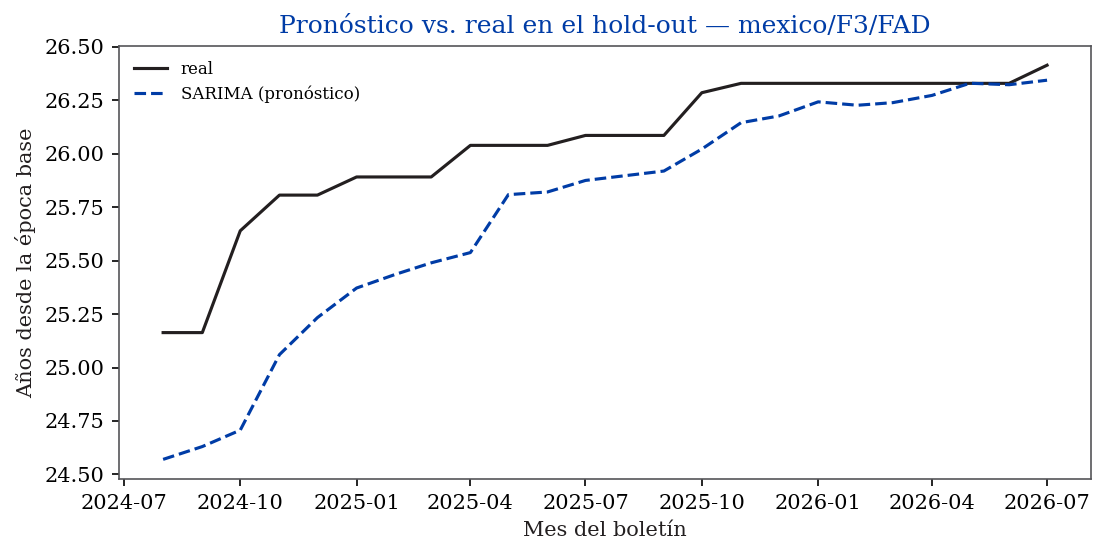
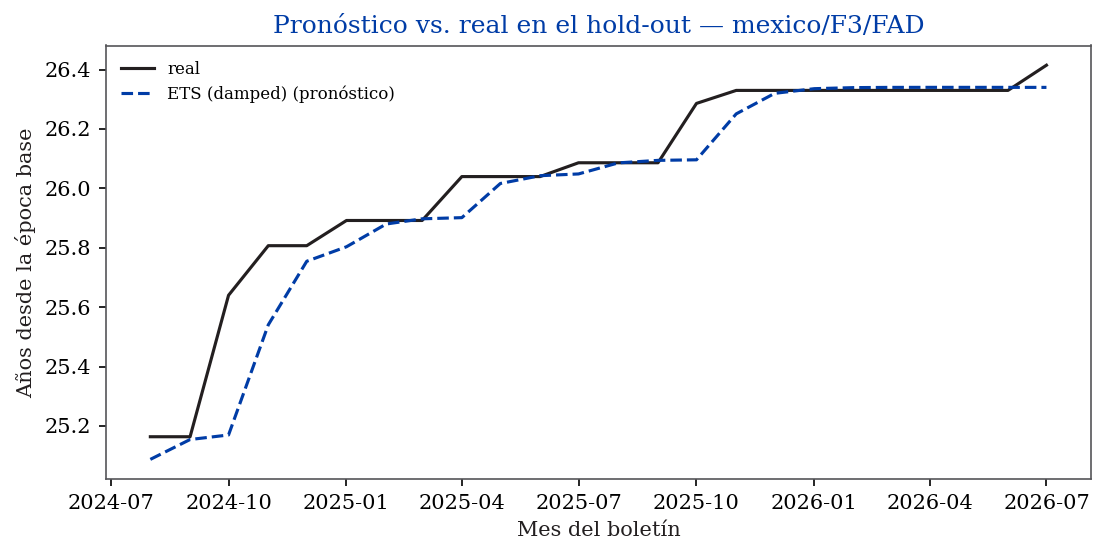
docs(tex): update Proyecto I to 21-model results + tuning, ensemble, CRPS
Rewrite model catalog (8->21 families), DFF table to 21 models, add Optuna HPO
methodology + hold-out-confirmed gains, curated-ensemble and CRPS results, and
conclusions (parsimony wins; foundation/global/tuning nuance). Regenerate the
MX/F3/FAD hold-out figure with its actual best model (ETS). Refs [19]-[21]
(Optuna, M4, CRPS).

diff --git a/reports/latex/ProyectoI_VisaPredictAI.tex b/reports/latex/ProyectoI_VisaPredictAI.tex
@@ -135,9 +135,12 @@ FAD de DFF. Entrega cada serie $y_{p,c,b,t}$ con índice mensual.
 huecos cortos (meses $C$/$U$ intercalados) y deja como faltantes los huecos
 largos; estandariza con estadísticos calculados solo sobre el tramo de
 entrenamiento y construye los regresores de calendario del año fiscal.
-\item \textbf{Catálogo de modelos.} Ocho modelos de referencia tras una interfaz
-común: naïve estacional, ARIMA, SARIMA, Prophet, LSTM, DeepAR, la cascada
-ARIMA-LSTM y XGBoost con regresores.
+\item \textbf{Catálogo de modelos.} Veintiún modelos tras una interfaz común, de seis
+familias: referencia (naïve estacional), estadísticos (ARIMA, SARIMA), suavizamiento y
+descomposición (ETS amortiguado, Theta, Kalman), aditivo (Prophet), árboles sobre
+deltas (XGBoost, LightGBM, CatBoost), lineales y redes profundas (DLinear, NLinear,
+RLinear, TiDE, LSTM, DeepAR, ARIMA-LSTM, N-BEATS, N-HiTS, TFT) y un \textit{foundation
+model} zero-shot (Chronos).
 \item \textbf{Validación walk-forward.} Validación temporal con ventana
 expansible y paso mensual que evalúa cada modelo sin fuga de información, reservando
 los últimos 24 meses como conjunto independiente.
@@ -157,7 +160,7 @@ cobertura empírica.
   arr/.style={-{Latex[length=2mm]}, uacjgray, line width=0.7pt}]
   \node[store] (db) {Almacén DuckDB (vista entrenable $e=F$)};
   \node[box, right=0.6cm of db] (pre) {Preprocesa\-miento (huecos, escala, calendario)};
-  \node[box, right=0.6cm of pre] (mod) {Catálogo de 8 modelos};
+  \node[box, right=0.6cm of pre] (mod) {Catálogo de 21 modelos};
   \node[box, right=0.6cm of mod] (wf) {Walk-forward (holdout 24 m)};
   \node[box, fill=uacjyellow!25, right=0.6cm of wf] (pi) {Pronóstico + intervalo 95\,\%};
   \draw[arr] (db) -- (pre);
@@ -589,43 +592,51 @@ modelado no usa estos valores imputados, sino una máscara de observación.}
 
 \subsection{1.3.1 Definición de las técnicas de modelado a utilizar}
 
-Se comparan los ocho modelos de la Tabla~\ref{tab:modelos}, que cubren tres familias
-complementarias: estadísticos clásicos, modelos aditivos y modelos de aprendizaje
-automático. El naïve estacional es el modelo de referencia obligatorio y el
-denominador de la métrica MASE. La
-elección responde al problema: las series son fechas que avanzan con tendencia
-fuerte, estacionalidad anual leve y retrogresiones ocasionales, por lo que conviene
-contrastar modelos lineales con memoria corta (ARIMA, SARIMA) contra modelos no
-lineales con capacidad de capturar patrones complejos (LSTM, DeepAR, XGBoost) y una
-cascada que combina ambos enfoques (ARIMA-LSTM \cita{9}).
+Se comparan los \textbf{21 modelos} de la Tabla~\ref{tab:modelos}, agrupados en seis
+familias complementarias. El naïve estacional es el modelo de referencia obligatorio y
+el denominador de la métrica MASE. La elección responde al problema: las series son
+fechas que avanzan con tendencia fuerte, estacionalidad anual casi nula y
+retrogresiones ocasionales, por lo que conviene contrastar el espectro completo
+—desde modelos lineales parsimoniosos (ARIMA, SARIMA, ETS, Theta) hasta modelos de alta
+capacidad (árboles de potenciación de gradiente sobre deltas, redes profundas)— y
+verificar empíricamente cuál conviene a este régimen de datos. Los árboles se formulan
+sobre la \textit{primera diferencia} (predicen el incremento mensual y lo reintegran),
+condición necesaria para que puedan extrapolar la tendencia en lugar de saturarse en el
+máximo observado. Se incluye además un \textit{foundation model} preentrenado (Chronos)
+evaluado en modo zero-shot, sin ajustarse a estos datos.
 
 \begin{table}[H]
 \centering
-\caption[Catálogo de modelos]{Los ocho modelos de referencia y su justificación.}
+\footnotesize
+\caption[Catálogo de modelos]{Las seis familias del catálogo de 21 modelos y su
+justificación. Los árboles operan sobre la primera diferencia; Chronos es zero-shot.}
 \label{tab:modelos}
 \begin{tabular}{lll}
 \hline
 \rowcolor{uacjblue!15}
-\textbf{Modelo} & \textbf{Familia} & \textbf{Rol} \\ \hline
-Naïve estacional & Referencia & Línea base; denominador de MASE \\
-ARIMA \cita{2} & Estadístico lineal & Tendencia con diferenciación \\
-SARIMA \cita{2} & Estadístico estacional & Estacionalidad anual \\
-Prophet \cita{3} & Aditivo & Tendencia con cambios de régimen \\
-LSTM \cita{4} & Red recurrente & No linealidad determinista \\
-DeepAR \cita{5} & Red probabilística & Intervalos nativos \\
-ARIMA-LSTM \cita{9} & Cascada híbrida & Lineal + residual no lineal \\
-XGBoost \cita{6} & Árboles potenciados & Rezagos + regresores \\ \hline
+\textbf{Familia} & \textbf{Modelos} & \textbf{Rol} \\ \hline
+Referencia & Naïve estacional & Línea base; denominador de MASE \\
+Estadísticos \cita{2} & ARIMA, SARIMA & Tendencia/estacionalidad lineal \\
+Suavizamiento & ETS amortiguado, Theta, Kalman & Tendencia parsimoniosa \\
+Aditivo \cita{3} & Prophet & Tendencia con cambios de régimen \\
+Árboles sobre deltas \cita{6} & XGBoost, LightGBM, CatBoost & Rezagos + regresores, extrapolación \\
+Lineales/profundos \cita{4}\cita{5}\cita{9} & DLinear, NLinear, RLinear, TiDE, & No linealidad y capacidad alta \\
+ & LSTM, DeepAR, ARIMA-LSTM, & \\
+ & N-BEATS, N-HiTS, TFT & \\
+Foundation \textit{(zero-shot)} & Chronos & Transferencia sin entrenamiento \\ \hline
 \end{tabular}
 \end{table}
 
 \subsection{1.3.2 Creación de la arquitectura general del sistema y definición del flujo de trabajo}
 
-Los ocho modelos se exponen tras una interfaz común (\texttt{fit}/\texttt{predict})
+Los 21 modelos se exponen tras una interfaz común (\texttt{fit}/\texttt{predict})
 mediante la biblioteca \textit{darts}, lo que permite una comparación justa y reúsa
 el motor de validación temporal y la generación de bandas probabilísticas sin
-reimplementarlos. El flujo de trabajo es el de la Figura~\ref{fig:arquitectura}: la
-única pieza de código propio es la cascada ARIMA-LSTM, un envoltorio delgado que
-ajusta un ARIMA, calcula sus residuales y entrena un LSTM sobre ellos.
+reimplementarlos. El flujo de trabajo es el de la Figura~\ref{fig:arquitectura}: las
+piezas de código propio son la cascada ARIMA-LSTM (un envoltorio que ajusta un ARIMA,
+calcula sus residuales y entrena un LSTM sobre ellos), el envoltorio que diferencia las
+series para los árboles de potenciación de gradiente y el adaptador que evalúa Chronos
+en modo zero-shot.
 
 % ------------------------------------------------------------
 \section{1.4 Desarrollo}
@@ -634,7 +645,9 @@ ajusta un ARIMA, calcula sus residuales y entrena un LSTM sobre ellos.
 
 La implementación reúsa el almacén DuckDB del Objetivo~1 y se apoya en
 \textit{darts} sobre \textit{PyTorch} para los modelos de redes neuronales,
-\textit{statsmodels} para ARIMA/SARIMA, \textit{Prophet} y \textit{XGBoost}. Durante
+\textit{statsmodels} para ARIMA/SARIMA/ETS/Theta, \textit{Prophet}, los árboles
+\textit{XGBoost}/\textit{LightGBM}/\textit{CatBoost} y \textit{chronos-forecasting} para
+el \textit{foundation model}. Durante
 la implementación se enfrentaron retos de entorno propios de versiones recientes en
 \textit{Apple Silicon}: el entrenamiento de redes recurrentes con múltiples hilos
 provocaba fallos de segmentación, resueltos forzando un solo hilo de cómputo; y el
@@ -654,6 +667,20 @@ conjunto de prueba, para impedir la fuga de información.
 
 \subsection{1.4.3 Optimización de parámetros y pruebas avanzadas}
 
+Los árboles de potenciación de gradiente se optimizan con \textit{Optuna} \cita{19}
+(muestreo TPE multivariante, semilla fija) bajo un protocolo \textit{anidado y libre de
+fuga}: el objetivo minimiza el error de una cola de validación interna recortada de la
+región de entrenamiento (un ajuste seguido de validación rodante a un paso), de modo que
+el conjunto reservado de 24 meses \textit{nunca} interviene en la búsqueda. Se ajusta un
+único conjunto de hiperparámetros por grupo (FAD/DFF), lo que regulariza con muestras
+pequeñas, y se sesga el espacio de búsqueda hacia la regularización (profundidad y tasa
+de aprendizaje bajas, penalización alta). Como salvaguarda contra el sobreajuste a la
+métrica de selección, una configuración tuneada solo se \textit{acepta} si además mejora
+sobre los valores por defecto en el conjunto reservado; en caso contrario se conserva el
+valor por defecto. Los modelos estadísticos no entran en esta búsqueda porque su propia
+selección por criterio de información (AICc) ya cumple esa función. El efecto de esta
+optimización se reporta en §2.2.
+
 Los intervalos de predicción al 95\,\% se generan por dos mecanismos
 complementarios. El primero es el probabilístico: ARIMA, SARIMA y DeepAR muestrean
 su distribución predictiva, de la que se leen los cuantiles 2.5\,\% y 97.5\,\%; este
@@ -661,7 +688,7 @@ camino cubre tanto los modelos estadísticos como el de red neuronal. El segundo
 conforme dividido, un método no paramétrico y agnóstico al modelo que fija el
 semiancho a partir del cuantil de los errores absolutos de calibración, con cobertura
 garantizada bajo intercambiabilidad \cita{8}; al no depender del modelo, sirve de red
-de seguridad uniforme para los ocho. En una verificación controlada con datos
+de seguridad uniforme para los 21. En una verificación controlada con datos
 intercambiables, el intervalo conforme alcanzó una cobertura empírica del 92\,\%,
 cercana al nivel nominal; sobre las series reales tiende a ser conservador (cobertura
 $\geq$ nominal), como corresponde a su garantía teórica.
@@ -681,8 +708,8 @@ Un valor de MASE menor que uno indica que el modelo mejora al naïve.
 
 La generalización se evalúa sobre el conjunto de 24 meses reservado, que ningún
 modelo vio durante el ajuste ni la selección. La Figura~\ref{fig:holdout} compara el
-pronóstico del modelo ganador (SARIMA) contra los valores reales en ese conjunto
-para México/F3/FAD: el pronóstico sigue la trayectoria real y converge hacia el
+pronóstico del modelo de menor error en esa serie (ETS amortiguado) contra los valores
+reales para México/F3/FAD: el pronóstico sigue la trayectoria real y converge hacia el
 final del horizonte.
 
 \begin{figure}[H]
@@ -783,41 +810,87 @@ confianza de modelos (Model Confidence Set) y el ranking de Friedman-Nemenyi sob
 25 series, fijados de antemano.
 
 \paragraph{Resultados sobre la tabla DFF.} Como FAD y DFF se evalúan por separado, el
-mismo protocolo se aplicó a las 25 series DFF de preferencia familiar
-(Tabla~\ref{tab:comparacion_dff}). El resultado es \textit{distinto} al de FAD y muy
-informativo: en estas series, mucho más cortas (disponibles solo desde octubre de
-2015), \textbf{XGBoost} —con sus regresores de calendario— obtiene el menor error
-(MASE $=0.108$), seguido de ARIMA ($0.133$); XGBoost gana en 18 de las 25 series y
-ARIMA en 6. Más relevante aún es la \textbf{fragilidad de los modelos complejos ante
-datos escasos}: SARIMA solo logró ajustarse en 13 de 25 series (falla numérica
-\textit{LinAlgError} por sus términos estacionales en muestras cortas) y la cascada
-ARIMA-LSTM \textbf{no pudo ajustarse en ninguna}, pues su componente de red sobre los
-residuales requiere más historia que la disponible en la ventana inicial de DFF. Este
-contraste —SARIMA domina FAD pero XGBoost domina DFF, y los modelos de mayor capacidad
-se vuelven inviables con pocos datos— es precisamente la razón por la que el sistema
-evalúa cada tabla de forma independiente y no asume un único modelo universal.
+mismo protocolo (los 21 modelos) se aplicó a las 25 series DFF de preferencia familiar
+(Tabla~\ref{tab:comparacion_dff}). El patrón confirma el de FAD: lideran de nuevo los
+modelos parsimoniosos y los árboles sobre deltas, con \textbf{CatBoost} a la cabeza
+(MASE de selección $=0.116$), seguido muy de cerca por ETS ($0.117$) y Theta ($0.119$);
+en estas series más cortas (disponibles solo desde octubre de 2015) los árboles
+—CatBoost, LightGBM ($0.131$) y XGBoost ($0.134$)— escalan posiciones respecto a FAD,
+coherente con su robustez ante muestras pequeñas. El ganador por serie vuelve a
+repartirse (H2): CatBoost en 10 series, ARIMA en 7 y Theta en 6. Más relevante aún es la
+\textbf{fragilidad de los modelos complejos ante datos escasos}: SARIMA solo logró
+ajustarse en 13 de 25 series y ARIMA en 20 (falla numérica \textit{LinAlgError} en
+muestras cortas), y la cascada ARIMA-LSTM \textbf{no pudo ajustarse en ninguna} (se
+omite de la tabla), pues su componente de red requiere más historia que la disponible en
+la ventana inicial de DFF. Las redes profundas (DeepAR, LSTM, TFT) vuelven a caer por
+debajo del naïve. El error de hold-out de SARIMA ($0.100$) aparenta ser el menor, pero
+se promedia solo sobre las 13 series donde convergió —un sesgo de supervivencia— y no es
+comparable con los modelos que corrieron en las 25. Este contraste, y la inviabilidad
+numérica de los modelos de mayor capacidad con pocos datos, es la razón por la que el
+sistema evalúa cada tabla por separado y no asume un único modelo universal.
 
 \begin{table}[H]
 \centering
-\caption[Comparación de modelos (DFF)]{Desempeño promedio sobre las 25 series DFF de
-preferencia familiar, promediado solo sobre las series con ajuste exitoso. La cascada
-ARIMA-LSTM se omite por no converger en ninguna serie (datos insuficientes); SARIMA se
-ajustó en 13 de 25.}
+\footnotesize
+\caption[Comparación de los 21 modelos (DFF)]{Desempeño promedio sobre las 25 series DFF
+de preferencia familiar, ordenado por MASE de selección. Promediado solo sobre las
+series con ajuste exitoso ($n$); la cascada ARIMA-LSTM se omite por no converger en
+ninguna. El hold-out de SARIMA solo cubre 13 series (sesgo de supervivencia).}
 \label{tab:comparacion_dff}
-\begin{tabular}{lcccc}
+\begin{tabular}{lccccc}
 \hline
 \rowcolor{uacjblue!15}
-\textbf{Modelo} & \textbf{MASE sel.} & \textbf{MASE hold-out} & \textbf{sMAPE sel.} & \textbf{sMAPE hold-out} \\ \hline
-XGBoost & 0.108 & 0.095 & 0.22 & 0.21 \\
-ARIMA & 0.133 & 0.107 & 0.26 & 0.24 \\
-Prophet & 0.368 & 0.409 & 0.72 & 0.91 \\
-Naïve estacional & 1.392 & 0.843 & 2.81 & 1.92 \\
-SARIMA & 1.655 & 0.100 & 0.51 & 0.26 \\
-DeepAR & 2.349 & 1.743 & 4.98 & 4.97 \\
-LSTM & 2.483 & 1.712 & 5.24 & 4.55 \\
+\textbf{Modelo} & \textbf{MASE sel.} & \textbf{MASE hold-out} & \textbf{sMAPE sel.} & \textbf{sMAPE hold-out} & \textbf{$n$} \\ \hline
+CatBoost & 0.116 & 0.113 & 0.24 & 0.25 & 25 \\
+ETS (damped) & 0.117 & 0.106 & 0.23 & 0.23 & 25 \\
+Theta & 0.119 & 0.107 & 0.24 & 0.24 & 25 \\
+LightGBM & 0.131 & 0.127 & 0.27 & 0.29 & 25 \\
+ARIMA & 0.133 & 0.107 & 0.26 & 0.24 & 20 \\
+XGBoost & 0.134 & 0.127 & 0.27 & 0.29 & 25 \\
+NLinear & 0.164 & 0.129 & 0.33 & 0.28 & 25 \\
+Chronos (zero-shot) & 0.175 & 0.214 & 0.34 & 0.47 & 25 \\
+Kalman & 0.207 & 0.132 & 0.43 & 0.30 & 25 \\
+Prophet & 0.368 & 0.409 & 0.72 & 0.91 & 25 \\
+N-HiTS & 0.527 & 0.281 & 1.00 & 0.64 & 25 \\
+TiDE & 0.645 & 0.278 & 1.20 & 0.62 & 25 \\
+N-BEATS & 0.672 & 0.388 & 1.30 & 0.84 & 25 \\
+DLinear & 1.215 & 0.323 & 2.26 & 0.69 & 25 \\
+Naïve estacional & 1.392 & 0.843 & 2.81 & 1.92 & 25 \\
+SARIMA & 1.655 & 0.100 & 0.51 & 0.26 & 13 \\
+DeepAR & 2.349 & 1.743 & 4.98 & 4.97 & 25 \\
+RLinear (ridge) & 2.370 & 0.136 & 2.75 & 0.31 & 25 \\
+LSTM & 2.483 & 1.712 & 5.24 & 4.55 & 25 \\
+TFT & 3.214 & 2.768 & 6.60 & 7.23 & 25 \\
 \hline
 \end{tabular}
 \end{table}
+
+\paragraph{Efecto de la optimización de hiperparámetros.} Los tres árboles de
+potenciación de gradiente se optimizaron con \textit{Optuna} \cita{19} bajo el protocolo
+anidado de §1.4.3. La mejora se confirma \textit{sobre el conjunto reservado} —no solo
+sobre la validación interna—, por lo que no es un artefacto de sobreajuste a la métrica
+de selección: en FAD, LightGBM pasa de MASE de hold-out $0.195$ a $0.138$ ($-29\,\%$),
+XGBoost de $0.208$ a $0.152$ ($-27\,\%$) y CatBoost de $0.164$ a $0.137$ ($-17\,\%$); en
+DFF la ganancia es de $4$ a $15\,\%$. Los seis casos mejoran y se aceptan. Ahora bien,
+la optimización \textit{cierra la brecha pero no cambia el veredicto}: los árboles
+tuneados (FAD $0.137$--$0.152$) siguen por encima de los parsimoniosos ETS y Theta
+($0.118$), y en DFF ($0.109$) por encima de SARIMA. La capacidad adicional bien regulada
+acerca al modelo complejo, no lo hace superar al simple.
+
+\paragraph{Combinación de modelos y distribución predictiva.} Se evaluaron, también sin
+fuga, estrategias de conjunto sobre los pronósticos del hold-out \cita{20}. La
+\textit{selección por serie} (elegir para cada serie el modelo de menor error de
+selección) \textit{empeora} respecto al mejor modelo global ($+9.5\,\%$ en FAD,
+$+10.5\,\%$ en DFF): el criterio de selección no generaliza al hold-out con series tan
+cortas. La media o mediana de un conjunto amplio de siete modelos también queda por
+detrás, arrastrada por los miembros débiles. Solo una \textbf{combinación curada de los
+modelos fuertes} aporta valor: la mediana de Theta, ETS y SARIMA alcanza MASE $=0.1115$
+en FAD, superando por $\sim$5\,\% al mejor modelo individual ($0.118$); en DFF, en
+cambio, SARIMA por sí solo resulta imbatible. El cota de un selector perfecto (oráculo)
+es apenas $0.112$ en FAD, lo que confirma que hay poco margen por ganar. En cuanto a la
+\textit{distribución predictiva completa}, medida con el CRPS \cita{21} sobre los
+modelos con muestreo nativo, los clásicos producen distribuciones mucho más fieles que
+la red neuronal: SARIMA ($48.0$ días) $\approx$ ARIMA ($49.1$) $\ll$ DeepAR ($174.5$).
 
 \section{2.3 Robustez de la solución}
 
@@ -837,26 +910,39 @@ incertidumbre declarada sea verificable y no dependa de condiciones particulares
 % ============================================================
 \chapter{Conclusiones}
 
-Se construyó y validó el sistema predictivo VisaPredict AI sobre las 25 series FAD de
-preferencia familiar de las cinco áreas piloto, integrando la base de datos del
-Objetivo~1 con un catálogo de ocho modelos bajo un protocolo de validación temporal
-sin fuga de información. Los resultados muestran que, para las series de fechas de
-prioridad —cortas, con tendencia fuerte, estacionalidad casi nula y retrogresiones
-ocasionales—, los modelos estadísticos clásicos (SARIMA y ARIMA) ofrecen el mejor
-balance de exactitud y estabilidad, mejorando al naïve estacional por un margen amplio
-(MASE $0.139$ frente a $1.074$), mientras que los modelos de alta capacidad no aportan
-ventaja con la cantidad de datos disponible. Este resultado no es una limitación del
-trabajo sino un hallazgo validado: documenta, con un protocolo reproducible y libre de
-fuga, qué familia de modelos conviene a este dominio y por qué.
+Se construyó y validó el sistema predictivo VisaPredict AI sobre las 25 series FAD —y,
+por separado, las 25 series DFF— de preferencia familiar de las cinco áreas piloto,
+integrando la base de datos del Objetivo~1 con un catálogo de \textbf{21 modelos} de
+seis familias bajo un protocolo de validación temporal sin fuga de información. El
+hallazgo central es claro y, a la vez, contrario a la intuición de que "más capacidad
+es mejor": para series de fechas de prioridad —cortas, con tendencia fuerte,
+estacionalidad casi nula y retrogresiones ocasionales—, \textbf{los modelos
+parsimoniosos ganan}. ETS amortiguado y Theta encabezan FAD (MASE $=0.117$), CatBoost
+sobre deltas encabeza DFF ($0.116$), y todos mejoran al naïve estacional por un margen
+amplio. Las redes profundas entrenadas localmente (LSTM, DeepAR, TFT) caen por debajo
+del naïve: con 125 a 290 observaciones por serie su capacidad se traduce en
+sobreajuste, no en exactitud. Tres resultados matizan la respuesta a "¿conviene la
+IA?": (i) un \textit{foundation model} preentrenado evaluado sin ajuste (Chronos) supera
+a todas las redes entrenadas localmente, mostrando que la transferencia vence a la
+escasez de datos donde el entrenamiento local fracasa; (ii) la optimización de
+hiperparámetros con Optuna mejora a los árboles hasta un $29\,\%$ en hold-out, pero los
+acerca a los parsimoniosos sin superarlos; y (iii) ningún conjunto amplio mejora al
+mejor modelo, y solo una combinación curada de los tres modelos fuertes araña un $5\,\%$
+adicional en FAD. La conclusión es que la IA \textit{sí} aporta valor a este problema,
+pero la IA que gana es la parsimoniosa y bien validada, no la de mayor capacidad.
 
-La evaluación cubrió ambas tablas por separado (FAD y DFF), revelando que el modelo
-idóneo depende del régimen de datos: SARIMA en las series largas de FAD y XGBoost en
-las cortas de DFF, donde los modelos de mayor capacidad se vuelven numéricamente
-inviables. El sistema entrega pronósticos con intervalos de predicción al 95\,\% cuya
-cobertura empírica se verifica, y un marco reproducible de comparación que se
-extenderá, como trabajo futuro, a las categorías basadas en empleo, así como al
-tratamiento de los cambios de régimen ($C \leftrightarrow F \leftrightarrow U$) que en
-esta etapa quedan fuera del objetivo predictivo.
+Este resultado no es una limitación del trabajo sino un hallazgo validado: documenta,
+con un protocolo reproducible y libre de fuga, qué familia de modelos conviene a este
+dominio y por qué. La evaluación por separado de ambas tablas reveló además que el
+modelo idóneo depende del régimen de datos —parsimonia y árboles en FAD, árboles sobre
+deltas en las series cortas de DFF, donde los modelos de mayor capacidad se vuelven
+numéricamente inviables—, lo que justifica no asumir un único modelo universal. El
+sistema entrega pronósticos con intervalos de predicción al 95\,\% cuya cobertura
+empírica se verifica, y un marco reproducible de comparación que se extenderá, como
+trabajo futuro, a las categorías basadas en empleo, al entrenamiento global del panel
+(que rescata a los modelos profundos) y al tratamiento de los cambios de régimen
+($C \leftrightarrow F \leftrightarrow U$) que en esta etapa quedan fuera del objetivo
+predictivo.
 
 % ============================================================
 % REFERENCIAS (IEEE)
@@ -911,6 +997,15 @@ time-series feature sets,'' en \textit{ICDM Workshops}, 2021, pp. 1032--1041.
 \item\label{bib:18} W. A. Brock, W. D. Dechert, J. A. Scheinkman, y B. LeBaron, ``A test
 for independence based on the correlation dimension,'' \textit{Econometric Reviews},
 vol. 15, n.\textsuperscript{o} 3, pp. 197--235, 1996.
+\item\label{bib:19} T. Akiba, S. Sano, T. Yanase, T. Ohta, y M. Koyama, ``Optuna: A
+next-generation hyperparameter optimization framework,'' en \textit{Proc. 25th ACM
+SIGKDD}, 2019, pp. 2623--2631.
+\item\label{bib:20} S. Makridakis, E. Spiliotis, y V. Assimakopoulos, ``The M4
+competition: 100,000 time series and 61 forecasting methods,'' \textit{International
+Journal of Forecasting}, vol. 36, n.\textsuperscript{o} 1, pp. 54--74, 2020.
+\item\label{bib:21} T. Gneiting y A. E. Raftery, ``Strictly proper scoring rules,
+prediction, and estimation,'' \textit{Journal of the American Statistical Association},
+vol. 102, n.\textsuperscript{o} 477, pp. 359--378, 2007.
 \end{enumerate}
 
 % ============================================================